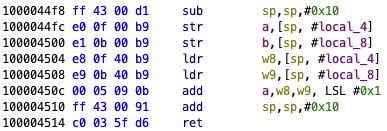
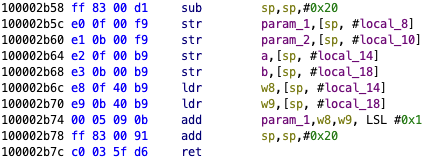
added objc version

diff --git a/project/iosApp/iosApp/Compare.swift b/project/iosApp/iosApp/Compare.swift
@@ -15,7 +15,8 @@ func swiftadd(a: Int, b: Int) -> Int {
 
 func compareAll(a: Int, b: Int) -> Int {
     let swift_result = swiftadd(a: a, b: b)
-    let objc_result = Int(objcadd(Int32(a), Int32(b)))
+    let c_result = Int(cadd(Int32(a), Int32(b)))
+    let objc_result = Int(ObjcAdd.add(Int32(a), andB: Int32(b)))
     let kt_result = Int(Platform_iosKt.kotlinAdd(a: Int32(a), b: Int32(b)))
-    return swift_result + objc_result + kt_result
+    return swift_result + objc_result + kt_result + c_result
 }

diff --git a/project/iosApp/iosApp/ObjcAdd.h b/project/iosApp/iosApp/ObjcAdd.h
@@ -6,12 +6,15 @@
 //  Copyright © 2023 orgName. All rights reserved.
 //
 
+#import <Foundation/Foundation.h>
+
 #ifndef ObjcAdd_h
 #define ObjcAdd_h
 
-int objcadd(int a, int b) {
-    return a + b * 2;
-}
+@interface ObjcAdd : NSObject
 
++ (int)add:(int)a andB:(int)b;
+
+@end
 
 #endif /* ObjcAdd_h */

diff --git a/project/iosApp/iosApp/ObjcAdd.m b/project/iosApp/iosApp/ObjcAdd.m
@@ -1,0 +1,17 @@
+//
+//  ObjcAdd.m
+//  iosApp
+//
+//  Created by Yiheng Quan on 3/11/2023.
+//  Copyright © 2023 orgName. All rights reserved.
+//
+
+#import "ObjcAdd.h"
+
+@implementation ObjcAdd
+
++ (int)add:(int)a andB:(int)b {
+    return a + b * 2;
+}
+
+@end

diff --git a/project/iosApp/iosApp/CAdd.h b/project/iosApp/iosApp/CAdd.h
@@ -1,0 +1,17 @@
+//
+//  CAdd.h
+//  iosApp
+//
+//  Created by Yiheng Quan on 3/11/2023.
+//  Copyright © 2023 orgName. All rights reserved.
+//
+
+#ifndef CAdd_h
+#define CAdd_h
+
+int cadd(int a, int b) {
+    return a + b * 2;
+}
+
+
+#endif /* CAdd_h */

diff --git a/project/iosApp/iosApp/iosApp-Bridging-Header.h b/project/iosApp/iosApp/iosApp-Bridging-Header.h
@@ -3,3 +3,4 @@
 //
 
 #import "ObjcAdd.h"
+#import "CAdd.h"

diff --git a/README.md b/README.md
@@ -10,6 +10,6 @@ int add(int a, int b) {
 ```
 
 See the following for their instructions in a Debug build:
-|Swift|ObjC|Kotlin|
-|---|---|---|
-|![Swift](https://raw.githubusercontent.com/HenryQuan/objc-swift-kotlin/main/img/swift.png)|![ObjC](https://raw.githubusercontent.com/HenryQuan/objc-swift-kotlin/main/img/objc.png)|![Kotlin](https://raw.githubusercontent.com/HenryQuan/objc-swift-kotlin/main/img/kotlin.png)|
+|Swift|ObjC|Kotlin|C|
+|---|---|---|---|
+|![Swift](https://raw.githubusercontent.com/HenryQuan/objc-swift-kotlin/main/img/swift.png)|![ObjC](https://raw.githubusercontent.com/HenryQuan/objc-swift-kotlin/main/img/objc.png)|![Kotlin](https://raw.githubusercontent.com/HenryQuan/objc-swift-kotlin/main/img/kotlin.png)|![C](https://raw.githubusercontent.com/HenryQuan/objc-swift-kotlin/main/img/c.png)|
